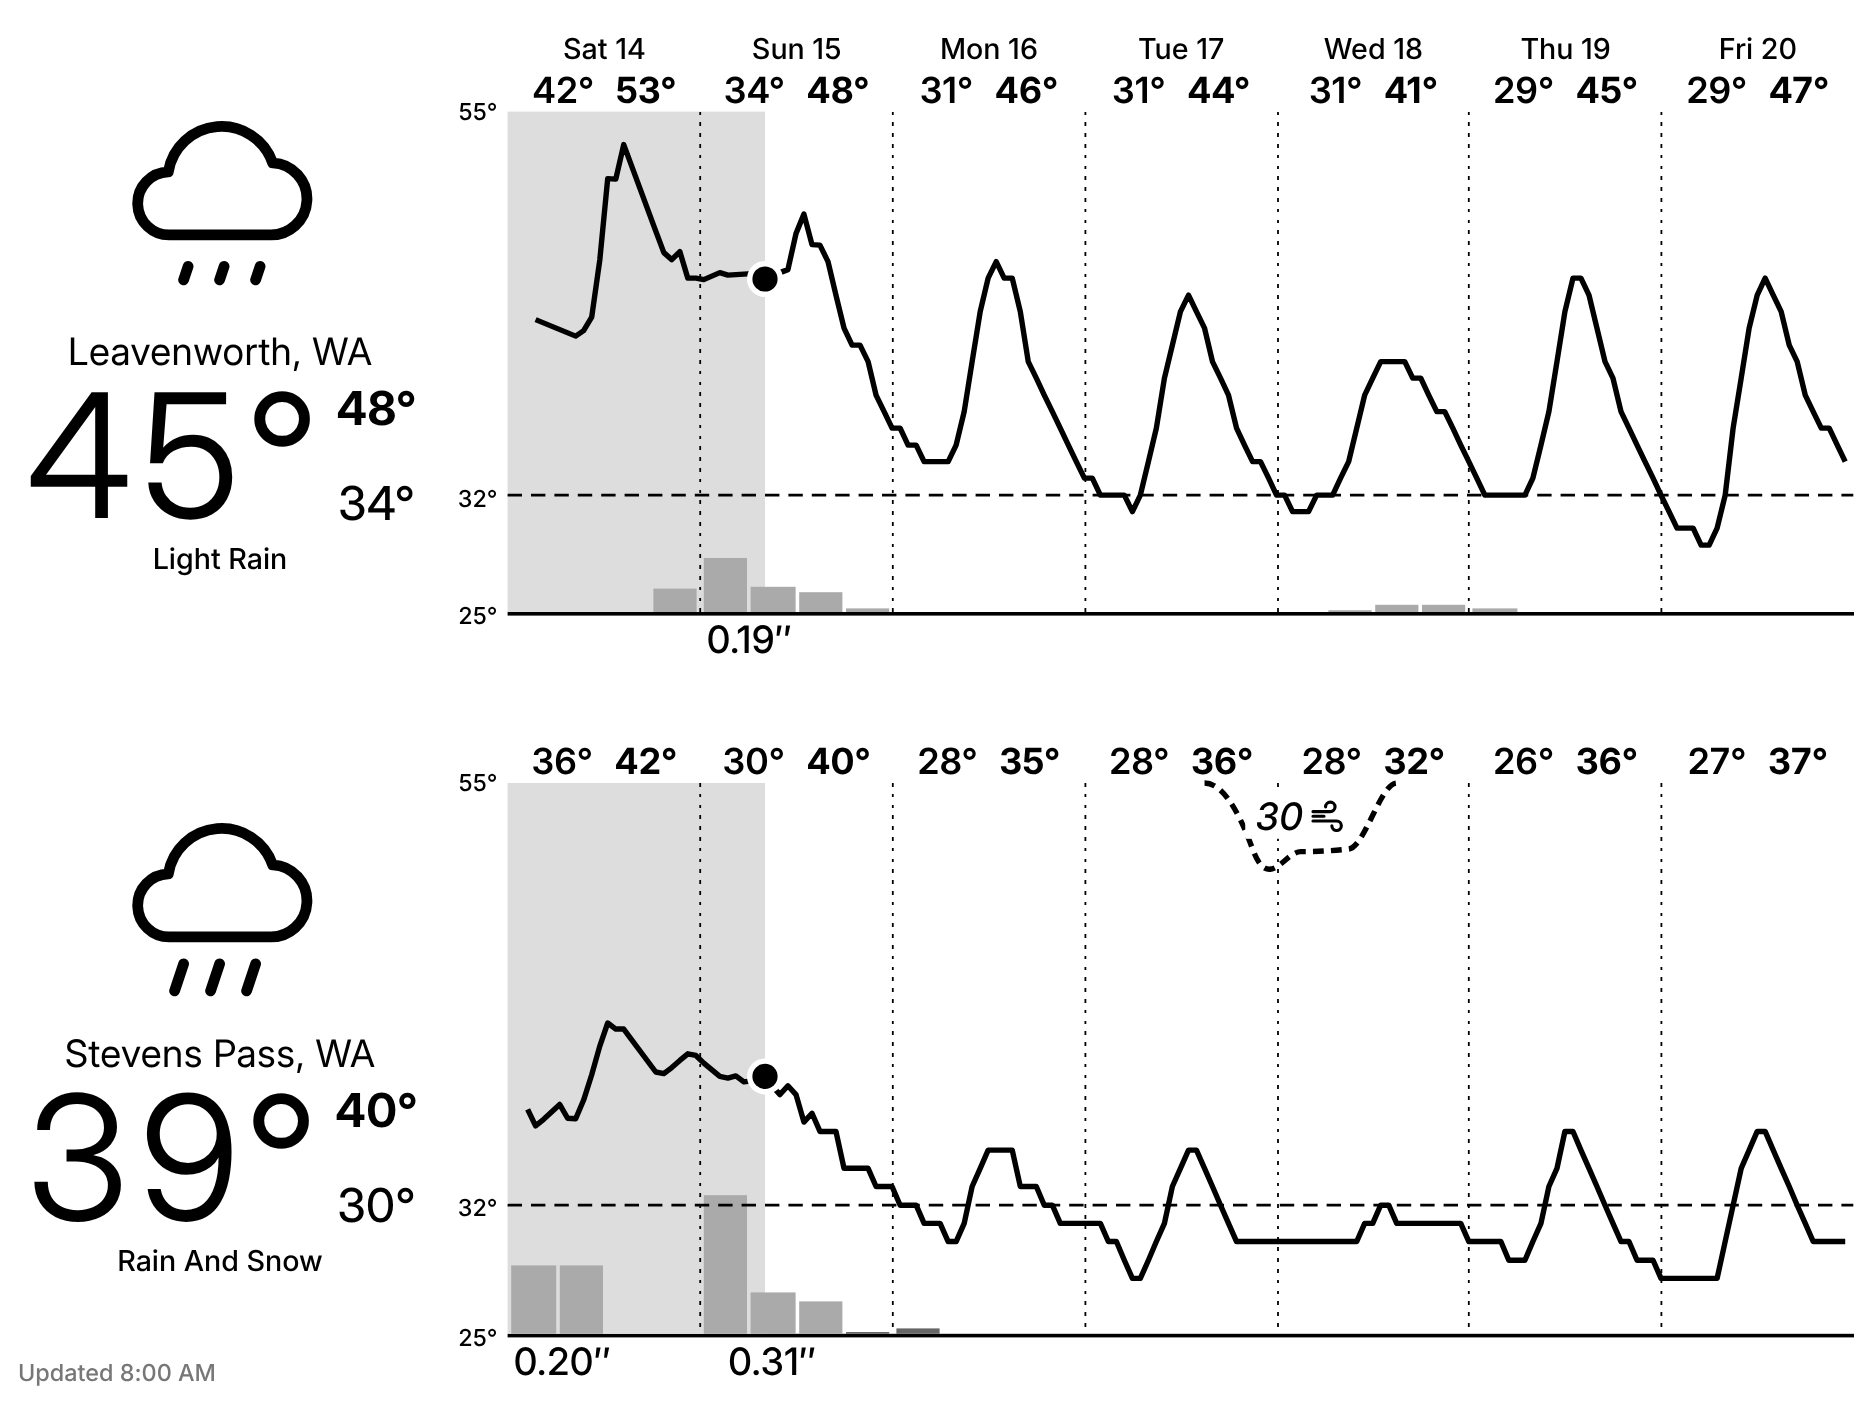
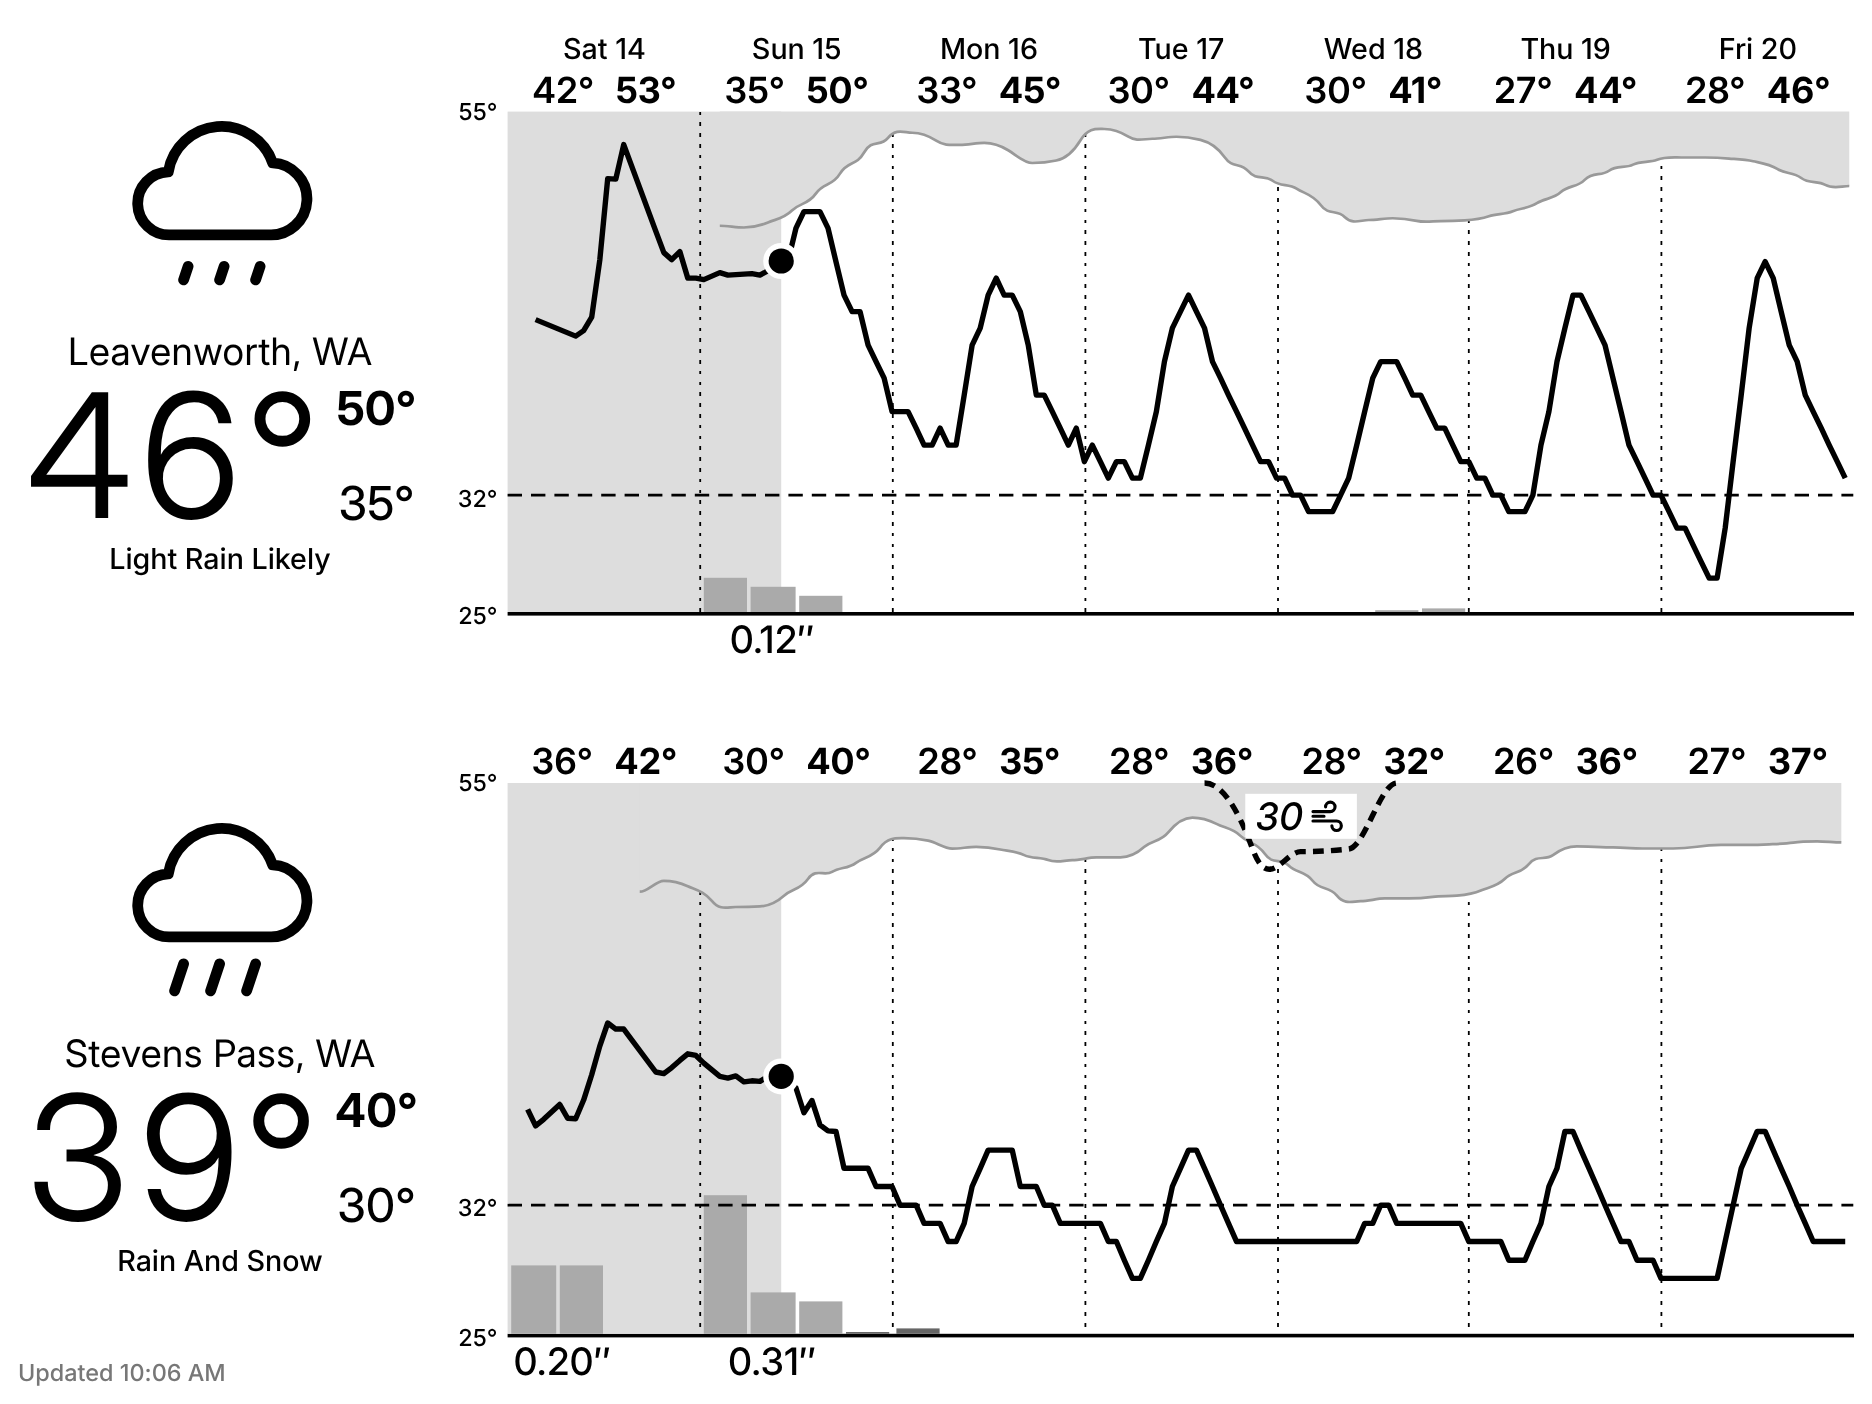
Show cloud cover hanging from the top of the chart
The forecast's hourly sky cover, averaged over 7 hours and drawn through a
point every 3, hangs from the top as deep as the sky is covered: open white
for clear spells, a light gray ceiling for overcast, with a thin edge line so
it reads over the shaded past too. Drops the ribbon mockup.

Claude-Session: https://claude.ai/code/session_018zBtTfGxqR6ysBZYHYeVbJ

diff --git a/server/forecast/sky.go b/server/forecast/sky.go
@@ -7,8 +7,17 @@ import (
 	"time"
 )
 
-// fillSky draws the forecast's cloud cover in the chart's top band: as a shape hanging from the top,
-// as deep as the sky is covered (SkyPath), and as one level per 6-hour block (Sky).
+// skySmoothHours is the window (centered) each hour's cloud cover is averaged over, and
+// skyStepHours the spacing of the points the shape's edge is drawn through: hourly cover jumps
+// around too much to read.
+const (
+	skySmoothHours = 7
+	skyStepHours   = 3
+)
+
+// fillSky draws the forecast's cloud cover in the chart's top band, as a shape hanging from the top
+// as deep as the sky is covered: SkyPath is the filled shape, SkyEdge its lower edge. The forecast
+// starts when it was issued, so the earlier part of the chart has none.
 func (c *Chart) fillSky(grid *GridData, start, end time.Time) {
 	ivs := grid.Properties.SkyCover.intervals()
 	coverAt := func(t time.Time) (float64, bool) {
@@ -22,38 +31,29 @@ func (c *Chart) fillSky(grid *GridData, start, end time.Time) {
 	span := float64(end.Sub(start))
 	xOf := func(t time.Time) float64 { return float64(t.Sub(start)) / span * 1000 }
 
-	// The shape: one point per hour at the hour's middle, over the hours the forecast covers.
-	xs, ys := []float64{}, []float64{}
+	hours := []time.Time{}
+	cover := map[time.Time]float64{}
 	for t := start; t.Before(end); t = t.Add(time.Hour) {
 		if v, ok := coverAt(t.Add(30 * time.Minute)); ok {
-			xs, ys = append(xs, xOf(t.Add(30*time.Minute))), append(ys, v)
+			hours = append(hours, t)
+			cover[t] = v
 		}
 	}
-	if len(xs) > 1 {
-		line := smoothPath(xs, ys)
-		c.SkyPath = "M" + fmtX(xs[0]) + ",0L" + strings.TrimPrefix(line, "M") + "L" + fmtX(xs[len(xs)-1]) + ",0Z"
-	}
-
-	for t := start; t.Before(end); t = t.Add(barHours * time.Hour) {
+	xs, ys := []float64{}, []float64{}
+	for i := 0; i < len(hours); i += skyStepHours {
 		sum, n := 0.0, 0
-		for h := t; h.Before(t.Add(barHours * time.Hour)); h = h.Add(time.Hour) {
-			if v, ok := coverAt(h.Add(30 * time.Minute)); ok {
+		for d := -skySmoothHours / 2; d <= skySmoothHours/2; d++ {
+			if v, ok := cover[hours[i].Add(time.Duration(d)*time.Hour)]; ok {
 				sum, n = sum+v, n+1
 			}
 		}
-		level := -1
-		if n > 0 {
-			switch avg := sum / float64(n); {
-			case avg < 30:
-				level = 0
-			case avg < 70:
-				level = 1
-			default:
-				level = 2
-			}
-		}
-		c.Sky = append(c.Sky, level)
+		xs, ys = append(xs, xOf(hours[i].Add(30*time.Minute))), append(ys, sum/float64(n))
 	}
+	if len(xs) < 2 {
+		return
+	}
+	c.SkyEdge = smoothPath(xs, ys)
+	c.SkyPath = "M" + fmtX(xs[0]) + ",0L" + strings.TrimPrefix(c.SkyEdge, "M") + "L" + fmtX(xs[len(xs)-1]) + ",0Z"
 }
 
 func fmtX(v float64) string { return strconv.FormatFloat(math.Round(v*10)/10, 'f', -1, 64) }

diff --git a/server/forecast/glance_test.go b/server/forecast/glance_test.go
@@ -985,3 +985,34 @@ func TestAnchorNow(t *testing.T) {
 		t.Errorf("now_y = %v on %d..%d", c.NowY, c.TempMin, c.TempMax)
 	}
 }
+
+func TestFillSky(t *testing.T) {
+	loc, _ := time.LoadLocation("America/Los_Angeles")
+	start := time.Date(2026, 11, 15, 0, 0, 0, 0, loc)
+	grid := GridData{}
+	add := func(h, hours int, v float64) {
+		grid.Properties.SkyCover.Values = append(grid.Properties.SkyCover.Values, struct {
+			ValidTime string   `json:"validTime"`
+			Value     *float64 `json:"value"`
+		}{start.Add(time.Duration(h)*time.Hour).Format(time.RFC3339) + fmt.Sprintf("/PT%dH", hours), &v})
+	}
+	// Issued at 10 AM: overcast until midnight, then clear.
+	add(10, 14, 100)
+	add(24, 24, 10)
+	c := &Chart{}
+	c.fillSky(&grid, start, start.AddDate(0, 0, 2))
+	if !strings.HasPrefix(c.SkyPath, "M218.8,0L218.8,100") || !strings.HasSuffix(c.SkyPath, ",0Z") || !strings.HasPrefix(c.SkyEdge, "M218.8,100") {
+		t.Errorf("sky path = %.60s… edge %.40s…", c.SkyPath, c.SkyEdge)
+	}
+	// The 7-hour average eases the change: the point for 1-2 AM (10 PM-5 AM: 2 overcast hours, 5
+	// clear) is in between.
+	if !strings.Contains(c.SkyEdge, " 531.3,35.7") {
+		t.Errorf("edge = %s", c.SkyEdge)
+	}
+	// Before the forecast starts there's no sky at all.
+	c = &Chart{}
+	c.fillSky(&GridData{}, start, start.AddDate(0, 0, 2))
+	if c.SkyPath != "" || c.SkyEdge != "" {
+		t.Errorf("empty sky = %q / %q", c.SkyPath, c.SkyEdge)
+	}
+}

diff --git a/server/forecast/chart.go b/server/forecast/chart.go
@@ -127,7 +127,7 @@ type Chart struct {
 	Storms    []Storm  `json:"storms"`       // snow/rain totals per storm, centered under it
 	Gusts     []Storm  `json:"gusts"`        // peak gust per windy spell, centered under it
 	SkyPath   string   `json:"sky_path"`     // cloud cover hanging from the top, viewBox 0 0 1000 100 over the top band
-	Sky       []int    `json:"sky"`          // per 6 hours: -1 unknown, 0 mostly clear, 1 partly cloudy, 2 mostly cloudy
+	SkyEdge   string   `json:"sky_edge"`     // the same shape's lower edge, as a line
 	WindLine  string   `json:"wind_line"`    // gusts as a curve hanging from the top: SVG path, viewBox 0 0 1000 100 over the wind band
 	HasAmount bool     `json:"has_amount"`   // any snow/rain at all in the window
 	Days      int      `json:"days"`         // columns in the chart
